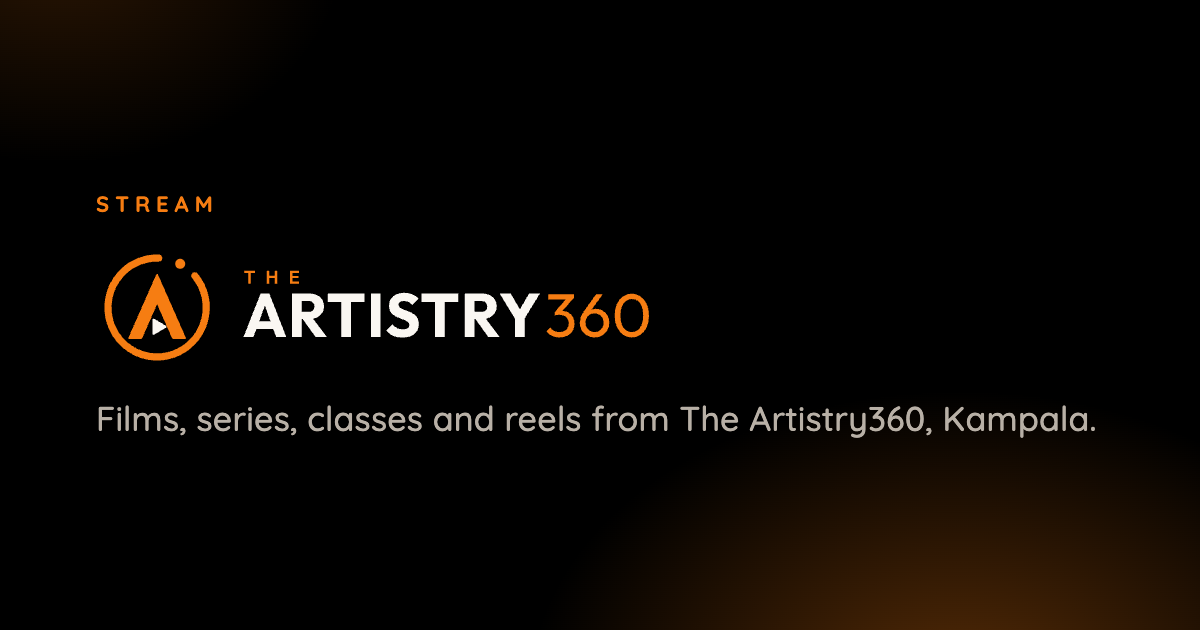
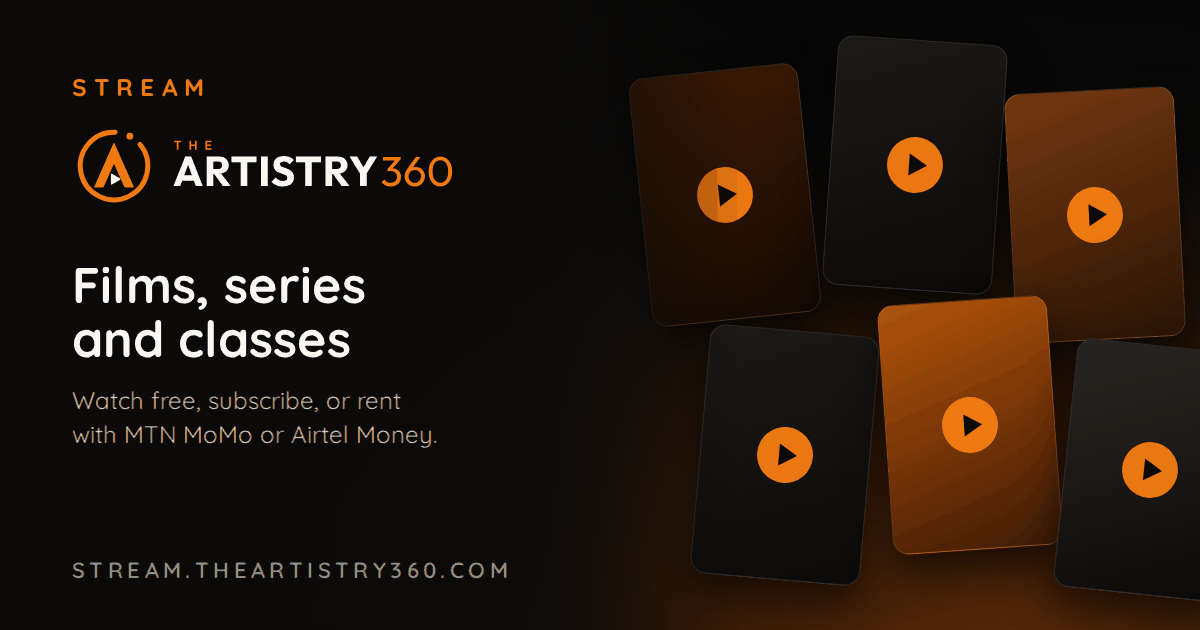
feat(seo): give the stream site its own default share card
Link previews for pages without their own card now use
public/share/stream-card.jpg, deliberately different from the
theartistry360.com card. default.png carries the same design for links
shared before the rename.

diff --git a/index.html b/index.html
@@ -13,11 +13,11 @@
     <meta property="og:title" content="The Artistry360 Stream" />
     <meta property="og:description" content="Films, series, documentaries and behind the scenes from The Artistry360, Kampala. Watch free titles, subscribe, or rent a film with MTN MoMo or Airtel Money." />
     <meta property="og:url" content="https://stream.theartistry360.com/" />
-    <meta property="og:image" content="https://stream.theartistry360.com/share/default.png" />
+    <meta property="og:image" content="https://stream.theartistry360.com/share/stream-card.jpg" />
     <meta property="og:image:width" content="1200" />
     <meta property="og:image:height" content="630" />
     <meta name="twitter:card" content="summary_large_image" />
-    <meta name="twitter:image" content="https://stream.theartistry360.com/share/default.png" />
+    <meta name="twitter:image" content="https://stream.theartistry360.com/share/stream-card.jpg" />
     <link rel="icon" href="/favicon.ico" sizes="48x48" />
     <link rel="icon" type="image/svg+xml" href="/favicon.svg" />
     <link rel="icon" type="image/png" sizes="32x32" href="/favicon-32x32.png" />

diff --git a/netlify/edge-functions/share-card.js b/netlify/edge-functions/share-card.js
@@ -83,7 +83,7 @@ export async function cardFor(url) {
   return {
     title: pageTitle(page?.title),
     description: page?.description || DEFAULT_DESCRIPTION,
-    image: `${origin}/share/default.png`,
+    image: `${origin}/share/stream-card.jpg`,
     url: `${origin}${url.pathname === "/" ? "/" : url.pathname}`,
     type: "website",
     noindex: Boolean(page?.noindex),

diff --git a/docs/08-sharing-and-seo.md b/docs/08-sharing-and-seo.md
@@ -19,7 +19,8 @@ WhatsApp, Facebook, X, iMessage, Slack and LinkedIn build link previews with cra
 - **Titles and descriptions** come from `src/seo/seo.js` (pure, no imports), which the app's `hooks/usePageMeta.js` reads too, so a tab title and a preview never disagree: fixed pages (`PAGES`), each Films tab (`?tab=documentaries` gets its own), and the legal pages.
 - **Films and series** get a **generated card**, `/share/title/<id>.jpg` (`netlify/functions/title-card.mjs`, drawn by `netlify/shared/title-card.js`): the whole poster, never cropped, on its darkened backdrop, with the title, type and year, "Watch on The Artistry360 Stream" and the logo. Link previews are wide (1200×630) and posters are tall, so a poster on its own lost its top and bottom, and the old card used the backdrop, a different picture from the poster for most titles. The card is a JPEG of about 100 KB (WhatsApp drops images over about 300 KB), drawn with satori and resvg (WebAssembly, served from `/share/resvg.wasm`) in Quicksand (`/share/fonts`). It is a Netlify Function, not an Edge Function: drawing takes far more than the edge's CPU budget.
 - **Fresh after a change:** the image URL carries `?v=<version>` (a stamp of title, type, poster and backdrop; the API's `updatedAt` once it exists). A new poster is a new URL, so WhatsApp and Facebook fetch it instead of their cached copy. Each version is drawn once and then served from Netlify's CDN (`Netlify-CDN-Cache-Control: durable, immutable`).
-- **Links:** a `/watch/:id` link previews as its title page (canonical `/title/:id`) and says `noindex`. An unknown id keeps the default card; a failed lookup or drawing never breaks the page (the image falls back to `/share/default.png`).
+- **Default card:** `public/share/stream-card.jpg` is the default for every page without its own card: "STREAM", the logo, "Films, series and classes" and a stack of film frames. It is deliberately different from the theartistry360.com card. `default.png` holds the same design for links shared before the rename.
+- **Links:** a `/watch/:id` link previews as its title page (canonical `/title/:id`) and says `noindex`. An unknown id keeps the default card; a failed lookup or drawing never breaks the page (the image falls back to `/share/stream-card.jpg`).
 - **Structured data:** a film is a `Movie`, a series a `TVSeries`, everything else a `VideoObject` (name, description, poster, date, genres, age rating). The home page carries `WebSite` with The Artistry360 as publisher.
 - **Data:**
   - Until the API exists: `public/share/catalog.json`, written at build time (`npm run build` runs `scripts/share-catalog.mjs` first) from the seed, published items only, with each title's poster, backdrop, type, year, genres and card version. **Titles added or changed in the Studio only reach previews once the API is connected.**
